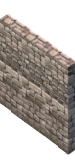
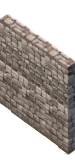
Wall

diff --git a/core/src/main/java/com/medville2/view/Renderer.java b/core/src/main/java/com/medville2/view/Renderer.java
@@ -7,6 +7,7 @@ import com.badlogic.gdx.graphics.g2d.BitmapFont;
 import com.badlogic.gdx.graphics.g2d.Sprite;
 import com.badlogic.gdx.graphics.g2d.SpriteBatch;
 import com.badlogic.gdx.graphics.g2d.TextureAtlas;
+import com.badlogic.gdx.graphics.g2d.TextureAtlas.AtlasRegion;
 import com.badlogic.gdx.graphics.g2d.TextureRegion;
 import com.badlogic.gdx.math.Rectangle;
 import com.badlogic.gdx.math.Vector2;
@@ -14,6 +15,7 @@ import com.medville2.control.BuildingRules;
 import com.medville2.model.Field;
 import com.medville2.model.FieldObject;
 import com.medville2.model.Terrain;
+import com.medville2.model.building.infra.Tower;
 import com.medville2.model.building.infra.Wall;
 import com.medville2.view.FieldCheckStatus.FieldWithStatus;
 
@@ -180,28 +182,37 @@ public class Renderer {
 			int y = fo.getI() * Terrain.DY / 2 + fo.getJ() * Terrain.DY / 2;
 			int ox = x;
 			int oy = y;
-			if (fo.getClass().equals(Wall.class)) {
+			if (Wall.class.isAssignableFrom(fo.getClass())) {
 				Wall wall = (Wall) fo; 
 				if (wall.hasSegment(3)) {
-					Sprite objectSprite = new Sprite(textureAtlas.findRegion(fo.getName()));
-					objectSprite.translate(ox + Terrain.DX / 4, oy + Terrain.DY / 2);
+					Sprite objectSprite = new Sprite(textureAtlas.findRegion("wall"));
+					objectSprite.translate(ox + Terrain.DX / 4 - 9, oy + Terrain.DY / 2 - 10);
 					objectSprite.draw(batch);
 				}
 				if (wall.hasSegment(1)) {
-					Sprite objectSprite = new Sprite(textureAtlas.findRegion(fo.getName()));
+					Sprite objectSprite = new Sprite(textureAtlas.findRegion("wall"));
 					objectSprite.flip(true, false);
-					objectSprite.translate(ox + Terrain.DX / 2, oy + Terrain.DY / 2);
+					objectSprite.translate(ox + Terrain.DX / 2 - 9, oy + Terrain.DY / 2 - 10);
 					objectSprite.draw(batch);
 				}
-				if (wall.hasSegment(2)) {
+				int crop = 0;
+				if (fo.getClass().equals(Tower.class)) {
 					Sprite objectSprite = new Sprite(textureAtlas.findRegion(fo.getName()));
-					objectSprite.translate(ox + Terrain.DX / 2, oy + Terrain.DY / 4);
+					objectSprite.translate(ox, oy);
+					objectSprite.draw(batch);
+					crop = 24;
+				}
+				if (wall.hasSegment(2)) {
+					AtlasRegion ar = textureAtlas.findRegion("wall");
+					Sprite objectSprite = new Sprite(new TextureRegion(ar, crop, 0, ar.getRegionWidth() - crop, ar.getRegionHeight()));
+					objectSprite.translate(ox + Terrain.DX / 2 + crop - 9, oy + Terrain.DY / 4 - 10);
 					objectSprite.draw(batch);
 				}
 				if (wall.hasSegment(0)) {
-					Sprite objectSprite = new Sprite(textureAtlas.findRegion(fo.getName()));
+					AtlasRegion ar = textureAtlas.findRegion("wall");
+					Sprite objectSprite = new Sprite(new TextureRegion(ar, crop, 0, ar.getRegionWidth() - crop, ar.getRegionHeight()));
 					objectSprite.flip(true, false);
-					objectSprite.translate(ox + Terrain.DX / 4, oy + Terrain.DY / 4);
+					objectSprite.translate(ox + Terrain.DX / 4 - 9, oy + Terrain.DY / 4 - 10);
 					objectSprite.draw(batch);
 				}
 			} else {

diff --git a/core/src/main/java/com/medville2/control/BuildingRules.java b/core/src/main/java/com/medville2/control/BuildingRules.java
@@ -25,7 +25,8 @@ public class BuildingRules {
 	private static final Set<Field.Type> BuildingTypes = ImmutableSet.of(Field.Type.GRASS);
 	private static final Set<Field.Type> MineTypes = ImmutableSet.of(Field.Type.ROCK);
 
-	public static FieldCheckStatus getFieldCheckStatus(Field field, Terrain terrain, ControlPanelState state, Class<?> buildingClass) {
+	public static FieldCheckStatus getFieldCheckStatus(Field field, Terrain terrain, ControlPanelState state,
+			Class<?> buildingClass) {
 		if (field == null) {
 			return FieldCheckStatus.fail(field);
 		}
@@ -131,15 +132,12 @@ public class BuildingRules {
 	public static boolean connectWall(int i, int j, Terrain terrain) {
 		Field f = terrain.getField(i, j);
 		if (f == null) {
-			return true;
+			return false;
 		}
 		if (f.getObject() == null) {
 			return false;
 		}
-		if (f.getObject().getClass().equals(Tower.class)) {
-			return true;
-		}
-		if (f.getObject().getClass().equals(Wall.class)) {
+		if (Wall.class.isAssignableFrom(f.getObject().getClass())) {
 			return true;
 		}
 		return false;
@@ -150,12 +148,27 @@ public class BuildingRules {
 		if (f == null || f.getObject() == null) {
 			return;
 		}
-		if (f.getObject().getClass().equals(Wall.class)) {
+		if (Wall.class.isAssignableFrom(f.getObject().getClass())) {
 			Wall wall = (Wall) f.getObject();
 			wall.setSegment(0, connectWall(wall.getI() - 1, wall.getJ(), terrain));
 			wall.setSegment(1, connectWall(wall.getI() + 1, wall.getJ(), terrain));
 			wall.setSegment(2, connectWall(wall.getI(), wall.getJ() - 1, terrain));
-			wall.setSegment(3, connectWall(wall.getI(), wall.getJ() + 1, terrain));	
+			wall.setSegment(3, connectWall(wall.getI(), wall.getJ() + 1, terrain));
+			if (wall.hasSegment(0) && !wall.hasSegment(1) && !wall.hasSegment(2) && !wall.hasSegment(3)) {
+				wall.setSegment(1, true);
+			} else if (!wall.hasSegment(0) && wall.hasSegment(1) && !wall.hasSegment(2) && !wall.hasSegment(3)) {
+				wall.setSegment(0, true);
+			} else if (!wall.hasSegment(0) && !wall.hasSegment(1) && wall.hasSegment(2) && !wall.hasSegment(3)) {
+				wall.setSegment(3, true);
+			} else if (!wall.hasSegment(0) && !wall.hasSegment(1) && !wall.hasSegment(2) && wall.hasSegment(3)) {
+				wall.setSegment(2, true);
+			}
+			if (f.getObject().getClass().equals(Wall.class) && !wall.hasSegment(0) && !wall.hasSegment(1) && !wall.hasSegment(2) && !wall.hasSegment(3)) {
+				wall.setSegment(0, true);
+				wall.setSegment(1, true);
+				wall.setSegment(2, true);
+				wall.setSegment(3, true);
+			}
 		}
 	}
 }

diff --git a/lwjgl3/src/main/java/com/medville2/lwjgl3/TextureHelper.java b/lwjgl3/src/main/java/com/medville2/lwjgl3/TextureHelper.java
@@ -38,7 +38,7 @@ public class TextureHelper {
 		images.put("townsquare", "townsquare.png");
 		images.put("mill", "mill_2.png");
 		images.put("blacksmith", "blacksmith.png");
-		images.put("wall", "wall_2.png");
+		images.put("wall", "wall_4.png");
 		
 		images.put("water_sparkle_0", "water_sparkle_0.png");
 		images.put("water_sparkle_1", "water_sparkle_1.png");

diff --git a/core/src/main/java/com/medville2/model/building/infra/Tower.java b/core/src/main/java/com/medville2/model/building/infra/Tower.java
@@ -1,6 +1,6 @@
 package com.medville2.model.building.infra;
 
-public class Tower extends InfraObject {
+public class Tower extends Wall {
 
 	public Tower(int i, int j) {
 		super(i, j);
